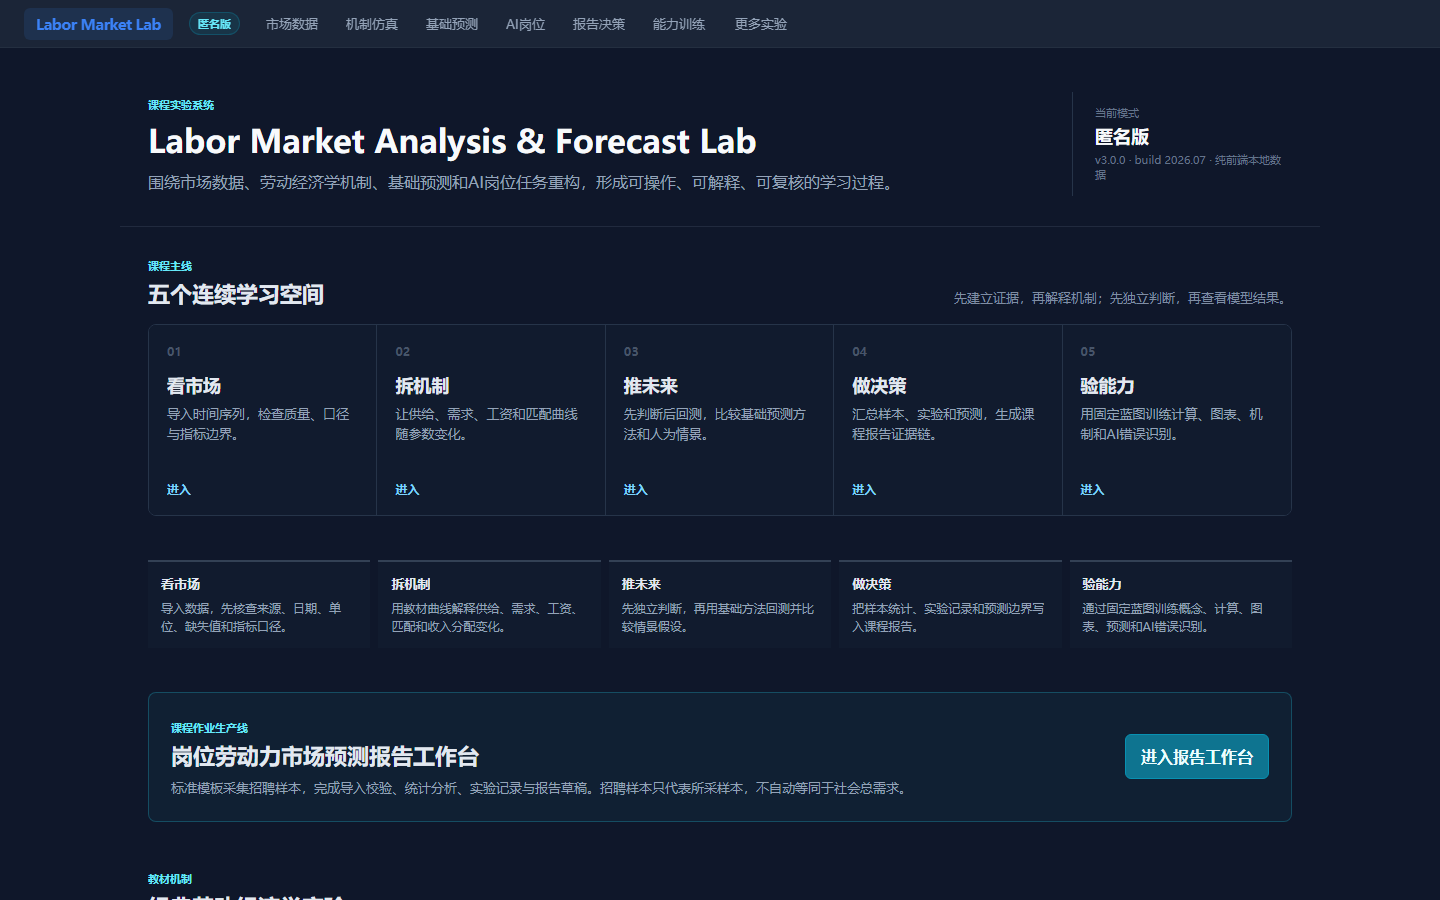
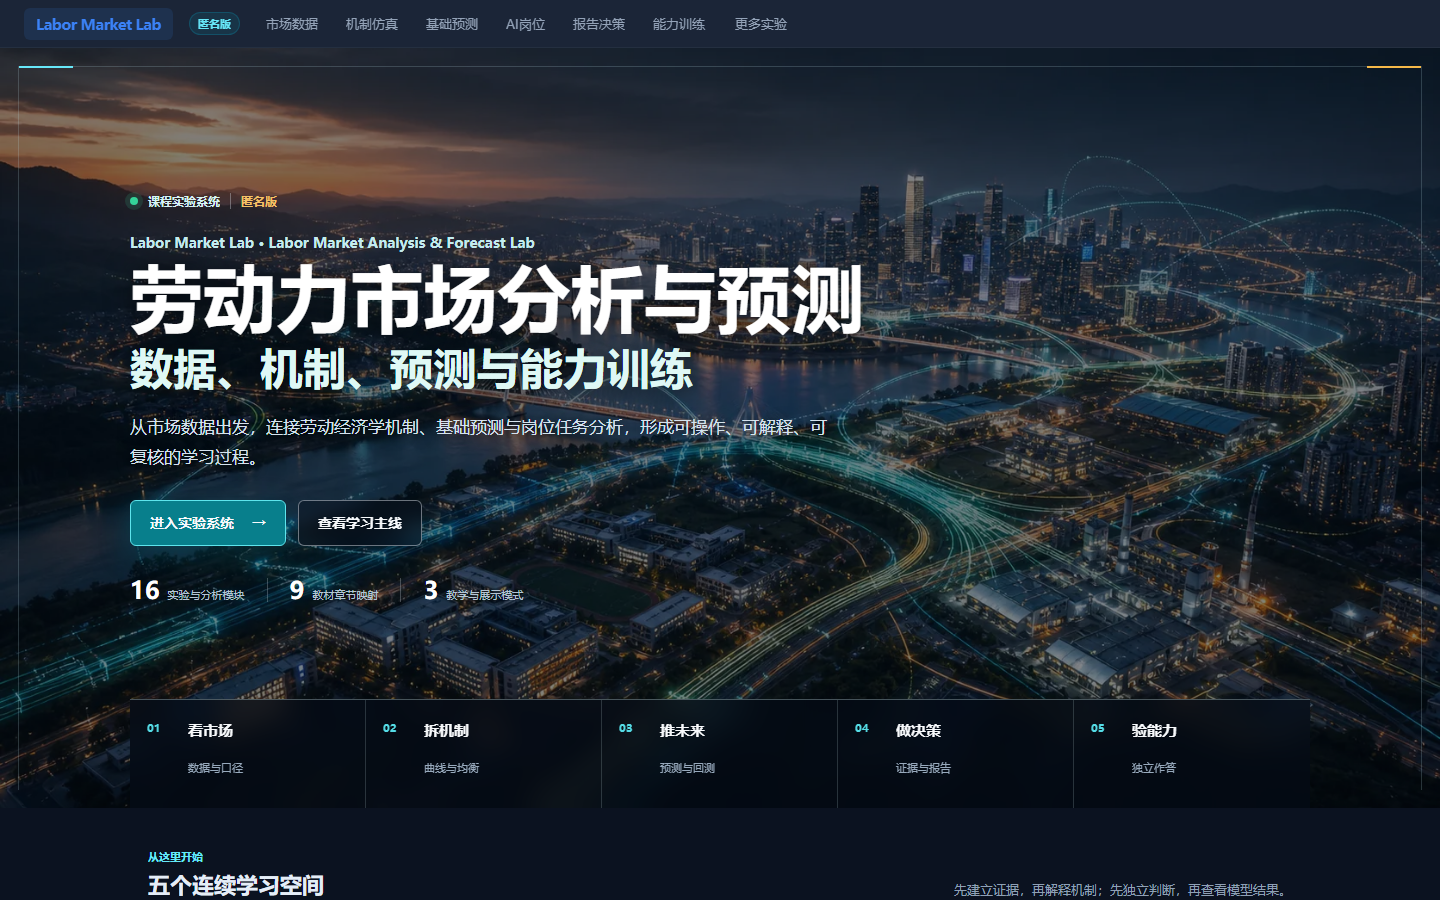
Restore immersive LMDT home experience

diff --git a/src/views/Home.vue b/src/views/Home.vue
@@ -1,23 +1,66 @@
 <template>
   <div class="home-console">
-    <header class="course-header">
-      <div class="course-identity">
-        <span>{{ appProfile.heroBadge }}</span>
-        <h1>{{ appProfile.brandFull }}</h1>
-        <p>{{ appProfile.heroDesc }}</p>
+    <header class="hero-stage" :class="`hero-stage--${appMode}`">
+      <img
+        class="hero-scene"
+        src="../assets/lmdt-hero-v3.webp"
+        alt="成渝城市群中教育、产业与人才流动共同构成的劳动力市场数字孪生场景"
+        width="1672"
+        height="941"
+        fetchpriority="high"
+      />
+      <div class="hero-shade" aria-hidden="true"></div>
+      <div class="hero-frame" aria-hidden="true"></div>
+
+      <div class="hero-content">
+        <div class="hero-kicker">
+          <span class="signal-dot" aria-hidden="true"></span>
+          <span>{{ appProfile.heroBadge }}</span>
+          <strong>{{ modeName }}</strong>
+        </div>
+
+        <p class="hero-brand">{{ appProfile.brandShort }} · {{ appProfile.brandFull }}</p>
+        <h1>
+          <span>{{ appProfile.titleLines[0] }}</span>
+          <span>{{ appProfile.titleLines[1] }}</span>
+        </h1>
+        <p class="hero-desc">{{ heroCopy.desc }}</p>
+
+        <div class="hero-actions" aria-label="首页主要操作">
+          <router-link :to="heroCopy.primaryTo" class="hero-primary">
+            {{ heroCopy.primaryLabel }}
+            <span aria-hidden="true">→</span>
+          </router-link>
+          <router-link :to="heroCopy.secondaryTo" class="hero-secondary">
+            {{ heroCopy.secondaryLabel }}
+          </router-link>
+        </div>
+
+        <dl class="hero-metrics" aria-label="系统内容概览">
+          <div><dt>{{ appProfile.moduleCount }}</dt><dd>实验与分析模块</dd></div>
+          <div><dt>{{ appProfile.chapterCount }}</dt><dd>教材章节映射</dd></div>
+          <div><dt>3</dt><dd>教学与展示模式</dd></div>
+        </dl>
       </div>
-      <div class="course-status">
-        <span>当前模式</span><strong>{{ modeName }}</strong>
-        <small>{{ appProfile.footerVersion }} · 纯前端本地数据</small>
-      </div>
+
+      <nav class="hero-route" aria-label="课程学习主线">
+        <router-link v-for="(space,index) in learningSpaces" :key="space.to" :to="space.to">
+          <span>0{{ index + 1 }}</span>
+          <strong>{{ space.title }}</strong>
+          <small>{{ space.routeDesc }}</small>
+        </router-link>
+      </nav>
     </header>
 
     <main>
       <section class="learning-spaces" aria-labelledby="spaces-title">
-        <div class="section-head"><div><span>课程主线</span><h2 id="spaces-title">五个连续学习空间</h2></div><p>先建立证据，再解释机制；先独立判断，再查看模型结果。</p></div>
+        <div class="section-head">
+          <div><span>从这里开始</span><h2 id="spaces-title">五个连续学习空间</h2></div>
+          <p>先建立证据，再解释机制；先独立判断，再查看模型结果。</p>
+        </div>
         <div class="space-grid">
           <router-link v-for="(space,index) in learningSpaces" :key="space.to" :to="space.to" class="space-item">
-            <span class="space-index">0{{ index+1 }}</span>
+            <span class="space-index">0{{ index + 1 }}</span>
             <div><strong>{{ space.title }}</strong><p>{{ space.desc }}</p></div>
             <span class="space-action">进入</span>
           </router-link>
@@ -30,7 +73,7 @@
         <div class="preset-row"><router-link v-for="item in competitionPresets" :key="item.title" :to="item.to"><strong>{{ item.title }}</strong><span>{{ item.desc }}</span></router-link></div>
       </section>
 
-      <section v-if="isCompetition || isAnonymous" class="evidence-strip">
+      <section v-if="isCompetition || isAnonymous" class="evidence-strip" aria-label="课程学习闭环">
         <article v-for="step in showcaseSteps" :key="step.title"><strong>{{ step.title }}</strong><span>{{ step.desc }}</span></article>
       </section>
 
@@ -60,12 +103,36 @@
 import { appMode, appProfile, isAnonymous, isCompetition, showcaseSteps } from '../config/appMode'
 
 const modeName = { teaching: '教学版', competition: '竞赛展示版', anonymous: '匿名版' }[appMode]
+const heroCopy = {
+  teaching: {
+    desc: '把市场数据、教材曲线与岗位变化放进同一套可操作实验，让每一次判断都能找到数据、模型和记录。',
+    primaryLabel: '开始课程实验',
+    primaryTo: '/analysis/market',
+    secondaryLabel: '进入报告工作台',
+    secondaryTo: '/report/workbench',
+  },
+  competition: {
+    desc: '沿着“看市场—拆机制—推未来—做决策—验能力”的学习主线，现场展示数据证据、机制解释、预测回测与学习评价。',
+    primaryLabel: '启动5分钟展示',
+    primaryTo: '/analysis/market',
+    secondaryLabel: '查看AI岗位实验',
+    secondaryTo: '/lab/ai-occupation',
+  },
+  anonymous: {
+    desc: '从市场数据出发，连接劳动经济学机制、基础预测与岗位任务分析，形成可操作、可解释、可复核的学习过程。',
+    primaryLabel: '进入实验系统',
+    primaryTo: '/analysis/market',
+    secondaryLabel: '查看学习主线',
+    secondaryTo: '/lab/enterprise',
+  },
+}[appMode]
+
 const learningSpaces = [
-  { title:'看市场', desc:'导入时间序列，检查质量、口径与指标边界。', to:'/analysis/market' },
-  { title:'拆机制', desc:'让供给、需求、工资和匹配曲线随参数变化。', to:'/lab/enterprise' },
-  { title:'推未来', desc:'先判断后回测，比较基础预测方法和人为情景。', to:'/forecast/basic' },
-  { title:'做决策', desc:'汇总样本、实验和预测，生成课程报告证据链。', to:'/report/workbench' },
-  { title:'验能力', desc:'用固定蓝图训练计算、图表、机制和AI错误识别。', to:'/practice/exam' },
+  { title:'看市场', routeDesc:'数据与口径', desc:'导入时间序列，检查质量、口径与指标边界。', to:'/analysis/market' },
+  { title:'拆机制', routeDesc:'曲线与均衡', desc:'让供给、需求、工资和匹配曲线随参数变化。', to:'/lab/enterprise' },
+  { title:'推未来', routeDesc:'预测与回测', desc:'先判断后回测，比较基础预测方法和人为情景。', to:'/forecast/basic' },
+  { title:'做决策', routeDesc:'证据与报告', desc:'汇总样本、实验和预测，生成课程报告证据链。', to:'/report/workbench' },
+  { title:'验能力', routeDesc:'独立作答', desc:'用固定蓝图训练计算、图表、机制和AI错误识别。', to:'/practice/exam' },
 ]
 const competitionRoute = [
   { step:'01', title:'数据质量', desc:'指标不是拿来就算，先审来源和口径。', to:'/analysis/market' },
@@ -94,11 +161,11 @@ const classicLabs = [
 </script>
 
 <style scoped>
-.home-console{min-height:100vh;color:#e2e8f0;background:#0f172a}.course-header{display:grid;grid-template-columns:minmax(0,1fr) 220px;gap:32px;max-width:1200px;margin:auto;padding:44px 28px 30px;border-bottom:1px solid rgba(148,163,184,.14)}.course-identity>span,.section-head>div>span,.workspace-band>div>span,.assessment-band>div>span{color:#67e8f9;font-size:11px;font-weight:850}.course-identity h1{max-width:900px;margin:8px 0 10px;color:#f8fafc;font-size:32px;line-height:1.2;letter-spacing:0}.course-identity p{max-width:760px;margin:0;color:#94a3b8;line-height:1.65}.course-status{display:grid;align-content:center;gap:4px;padding-left:22px;border-left:1px solid #263449}.course-status span,.course-status small{color:#64748b;font-size:11px}.course-status strong{font-size:18px;color:#f8fafc}
-main{max-width:1200px;margin:auto;padding:26px 28px 70px}.learning-spaces,.competition-route,.classic-labs{margin-bottom:44px}.section-head{display:flex;align-items:end;justify-content:space-between;gap:24px;margin-bottom:16px}.section-head h2,.workspace-band h2,.assessment-band h2{margin:5px 0 0;font-size:22px}.section-head>p{max-width:440px;margin:0;color:#7f8da3;font-size:13px;line-height:1.5}.space-grid{display:grid;grid-template-columns:repeat(5,minmax(0,1fr));border:1px solid #263449;border-radius:8px;overflow:hidden}.space-item{min-width:0;display:grid;grid-template-rows:auto 1fr auto;gap:14px;min-height:190px;padding:18px;border-right:1px solid #263449;color:inherit;background:#111b2e;text-decoration:none}.space-item:last-child{border-right:0}.space-item:hover{background:#17243a}.space-index{color:#475569;font-size:12px;font-weight:900}.space-item strong{font-size:18px}.space-item p{margin:7px 0 0;color:#94a3b8;font-size:13px;line-height:1.55}.space-action{color:#7dd3fc;font-size:12px;font-weight:800}
-.competition-route{padding:20px;border:1px solid rgba(245,158,11,.28);border-radius:8px;background:#111b2e}.competition-route .section-head>div>span{color:#fbbf24}.competition-route ol{display:grid;grid-template-columns:repeat(6,minmax(0,1fr));gap:7px;padding:0;list-style:none}.competition-route li a{height:100%;display:grid;align-content:start;gap:6px;padding:12px;border:1px solid #263449;color:inherit;background:#0f172a;text-decoration:none}.competition-route li span{color:#fbbf24;font-size:10px}.competition-route li strong{font-size:13px}.competition-route li small{color:#94a3b8;line-height:1.45}.preset-row{display:grid;grid-template-columns:repeat(3,1fr);gap:7px;margin-top:10px}.preset-row a{display:flex;justify-content:space-between;gap:12px;padding:10px 12px;border-left:3px solid #38bdf8;color:#e2e8f0;background:#152238;text-decoration:none;font-size:12px}.preset-row span{color:#94a3b8}
-.evidence-strip{display:grid;grid-template-columns:repeat(5,1fr);gap:8px;margin-bottom:44px}.evidence-strip article{display:grid;gap:7px;padding:13px;border-top:2px solid #334155;background:#111b2e}.evidence-strip strong{font-size:13px}.evidence-strip span{color:#94a3b8;font-size:12px;line-height:1.5}.workspace-band{display:grid;grid-template-columns:minmax(0,1fr) auto;align-items:center;gap:30px;margin-bottom:44px;padding:22px;border:1px solid rgba(34,211,238,.25);border-radius:8px;background:#102033}.workspace-band p,.assessment-band p{max-width:780px;margin:8px 0 0;color:#94a3b8;font-size:13px;line-height:1.6}.workspace-band>a{padding:11px 15px;border:1px solid #0891b2;border-radius:6px;color:#ecfeff;background:#0e7490;text-decoration:none;font-weight:800;white-space:nowrap}
-.lab-index{display:grid;grid-template-columns:repeat(3,1fr);gap:8px}.lab-index a{min-height:118px;padding:15px;border:1px solid #263449;border-radius:6px;color:inherit;background:#111b2e;text-decoration:none}.lab-index a:hover{border-color:#475569}.lab-index span{color:#67e8f9;font-size:10px;font-weight:850}.lab-index strong{display:block;margin-top:8px;font-size:15px}.lab-index p{margin:6px 0 0;color:#94a3b8;font-size:12px;line-height:1.5}.assessment-band{display:grid;grid-template-columns:minmax(0,1fr) minmax(360px,480px);gap:28px;align-items:center;padding:22px;border:1px solid #263449;background:#111b2e}.assessment-band dl{display:grid;grid-template-columns:repeat(4,1fr);margin:0}.assessment-band dl div{padding:8px 12px;border-left:1px solid #263449;text-align:center}.assessment-band dt{color:#94a3b8;font-size:11px}.assessment-band dd{margin:5px 0 0;color:#f8fafc;font-size:20px;font-weight:900}
-footer{display:grid;grid-template-columns:1fr 1fr auto;gap:28px;align-items:center;padding:22px max(28px,calc((100vw - 1144px)/2));border-top:1px solid #263449;color:#64748b;background:#0b1324;font-size:11px}footer div{display:grid;gap:3px}footer strong{color:#7dd3fc;font-size:14px}
-@media(max-width:900px){.course-header{grid-template-columns:1fr;padding:28px 18px 22px}.course-status{padding:12px 0 0;border-top:1px solid #263449;border-left:0}.course-identity h1{font-size:25px}main{padding:20px 16px 70px}.section-head{display:block}.section-head>p{margin-top:8px}.space-grid{grid-template-columns:1fr}.space-item{grid-template-columns:36px 1fr auto;grid-template-rows:auto;min-height:0;border-right:0;border-bottom:1px solid #263449}.space-item:last-child{border-bottom:0}.competition-route ol,.evidence-strip{grid-template-columns:1fr}.preset-row,.lab-index{grid-template-columns:1fr}.workspace-band,.assessment-band{grid-template-columns:1fr}.assessment-band dl{grid-template-columns:repeat(2,1fr)}.assessment-band dl div{border:1px solid #263449}.workspace-band>a{text-align:center}footer{grid-template-columns:1fr;padding:22px 18px}.course-header p{font-size:13px}}
+.home-console{min-height:100vh;color:#e5edf7;background:#0b1220}.hero-stage{position:relative;height:min(760px,calc(100dvh - 86px));min-height:620px;overflow:hidden;isolation:isolate;background:#08111f}.hero-scene{position:absolute;inset:0;z-index:-4;width:100%;height:100%;object-fit:cover;object-position:center 54%;animation:scene-breathe 18s ease-in-out infinite alternate}.hero-shade{position:absolute;inset:0;z-index:-3;background:rgba(3,9,18,.5)}.hero-frame{position:absolute;inset:18px;z-index:-1;border:1px solid rgba(190,226,236,.2);border-bottom:0;pointer-events:none}.hero-frame::before,.hero-frame::after{content:"";position:absolute;width:54px;height:2px;top:-1px;background:#67e8f9}.hero-frame::before{left:0}.hero-frame::after{right:0;background:#f5b849}.hero-content{width:min(1180px,calc(100% - 56px));height:100%;margin:auto;padding:clamp(58px,9vh,104px) 0 142px;display:flex;flex-direction:column;align-items:flex-start;justify-content:center}.hero-kicker{display:flex;align-items:center;gap:10px;color:#d8f4f5;font-size:12px;font-weight:760}.hero-kicker strong{padding-left:10px;border-left:1px solid rgba(226,232,240,.35);color:#f5c267}.signal-dot{width:8px;height:8px;border-radius:50%;background:#34d399;box-shadow:0 0 0 5px rgba(52,211,153,.15)}.hero-brand{margin:24px 0 4px;color:#6ee7f2;font-size:14px;font-weight:900;letter-spacing:0}.hero-content h1{margin:0;max-width:900px;color:#fff;font-size:clamp(42px,5.1vw,76px);font-weight:900;line-height:1.08;letter-spacing:0;text-shadow:0 4px 28px rgba(0,0,0,.7)}.hero-content h1 span{display:block}.hero-content h1 span:last-child{margin-top:8px;color:#dff8f5;font-size:.59em;font-weight:720}.hero-desc{max-width:700px;margin:22px 0 0;color:#d6e3ee;font-size:17px;line-height:1.75;text-shadow:0 2px 14px rgba(0,0,0,.75)}.hero-actions{display:flex;gap:12px;margin-top:28px}.hero-actions a{min-height:46px;display:inline-flex;align-items:center;justify-content:center;gap:18px;padding:0 19px;border-radius:6px;color:#f8fafc;text-decoration:none;font-size:14px;font-weight:850;transition:transform .2s,border-color .2s,background .2s}.hero-actions a:hover{transform:translateY(-2px)}.hero-primary{border:1px solid #5ee4ec;background:#087f8c;box-shadow:0 10px 32px rgba(8,127,140,.28)}.hero-primary:hover{background:#0b919e}.hero-secondary{border:1px solid rgba(226,232,240,.46);background:rgba(7,15,28,.42);backdrop-filter:blur(8px)}.hero-secondary:hover{border-color:#f5c267;background:rgba(7,15,28,.68)}.hero-metrics{display:flex;gap:0;margin:32px 0 0}.hero-metrics div{display:grid;grid-template-columns:auto auto;align-items:end;gap:8px;padding:0 22px;border-left:1px solid rgba(226,232,240,.26)}.hero-metrics div:first-child{padding-left:0;border-left:0}.hero-metrics dt{color:#fff;font-size:24px;font-weight:900;line-height:1}.hero-metrics dd{margin:0;color:#b5c5d4;font-size:11px}.hero-route{position:absolute;left:50%;bottom:0;width:min(1180px,calc(100% - 56px));display:grid;grid-template-columns:repeat(5,1fr);transform:translateX(-50%);border-top:1px solid rgba(209,236,240,.32);background:rgba(4,11,21,.74);backdrop-filter:blur(14px)}.hero-route a{min-width:0;display:grid;grid-template-columns:31px auto;grid-template-rows:auto auto;column-gap:10px;min-height:108px;padding:20px 17px;border-right:1px solid rgba(209,236,240,.18);color:#f8fafc;text-decoration:none;transition:background .2s}.hero-route a:last-child{border-right:0}.hero-route a:hover{background:rgba(30,188,197,.15)}.hero-route span{grid-row:1/3;color:#55dce6;font-size:11px;font-weight:900}.hero-route strong{font-size:15px}.hero-route small{margin-top:6px;color:#98aabd;font-size:11px}.hero-stage--competition .hero-kicker strong{color:#ffd47a}.hero-stage--competition .hero-primary{border-color:#ffd47a;background:#9b6408;box-shadow:0 10px 32px rgba(155,100,8,.3)}.hero-stage--competition .hero-primary:hover{background:#b3740b}.hero-stage--anonymous .hero-brand{color:#c5edf0}
+main{max-width:1200px;margin:auto;padding:36px 28px 70px}.learning-spaces,.competition-route,.classic-labs{margin-bottom:44px}.section-head{display:flex;align-items:end;justify-content:space-between;gap:24px;margin-bottom:16px}.section-head>div>span,.workspace-band>div>span,.assessment-band>div>span{color:#67e8f9;font-size:11px;font-weight:850}.section-head h2,.workspace-band h2,.assessment-band h2{margin:5px 0 0;font-size:22px}.section-head>p{max-width:440px;margin:0;color:#8fa0b5;font-size:13px;line-height:1.5}.space-grid{display:grid;grid-template-columns:repeat(5,minmax(0,1fr));border:1px solid #263449;border-radius:8px;overflow:hidden}.space-item{min-width:0;display:grid;grid-template-rows:auto 1fr auto;gap:14px;min-height:190px;padding:18px;border-right:1px solid #263449;color:inherit;background:#111b2e;text-decoration:none}.space-item:last-child{border-right:0}.space-item:hover{background:#17243a}.space-index{color:#5f7188;font-size:12px;font-weight:900}.space-item strong{font-size:18px}.space-item p{margin:7px 0 0;color:#a5b4c7;font-size:13px;line-height:1.55}.space-action{color:#7dd3fc;font-size:12px;font-weight:800}.competition-route{padding:20px;border:1px solid rgba(245,158,11,.28);border-radius:8px;background:#111b2e}.competition-route .section-head>div>span{color:#fbbf24}.competition-route ol{display:grid;grid-template-columns:repeat(6,minmax(0,1fr));gap:7px;padding:0;list-style:none}.competition-route li a{height:100%;display:grid;align-content:start;gap:6px;padding:12px;border:1px solid #263449;color:inherit;background:#0f172a;text-decoration:none}.competition-route li span{color:#fbbf24;font-size:10px}.competition-route li strong{font-size:13px}.competition-route li small{color:#a5b4c7;line-height:1.45}.preset-row{display:grid;grid-template-columns:repeat(3,1fr);gap:7px;margin-top:10px}.preset-row a{display:flex;justify-content:space-between;gap:12px;padding:10px 12px;border-left:3px solid #38bdf8;color:#e2e8f0;background:#152238;text-decoration:none;font-size:12px}.preset-row span{color:#a5b4c7}.evidence-strip{display:grid;grid-template-columns:repeat(5,1fr);gap:8px;margin-bottom:44px}.evidence-strip article{display:grid;gap:7px;padding:13px;border-top:2px solid #334155;background:#111b2e}.evidence-strip strong{font-size:13px}.evidence-strip span{color:#a5b4c7;font-size:12px;line-height:1.5}.workspace-band{display:grid;grid-template-columns:minmax(0,1fr) auto;align-items:center;gap:30px;margin-bottom:44px;padding:22px;border:1px solid rgba(34,211,238,.25);border-radius:8px;background:#102033}.workspace-band p,.assessment-band p{max-width:780px;margin:8px 0 0;color:#a5b4c7;font-size:13px;line-height:1.6}.workspace-band>a{padding:11px 15px;border:1px solid #0891b2;border-radius:6px;color:#ecfeff;background:#0e7490;text-decoration:none;font-weight:800;white-space:nowrap}.lab-index{display:grid;grid-template-columns:repeat(3,1fr);gap:8px}.lab-index a{min-height:118px;padding:15px;border:1px solid #263449;border-radius:6px;color:inherit;background:#111b2e;text-decoration:none}.lab-index a:hover{border-color:#475569}.lab-index span{color:#67e8f9;font-size:10px;font-weight:850}.lab-index strong{display:block;margin-top:8px;font-size:15px}.lab-index p{margin:6px 0 0;color:#a5b4c7;font-size:12px;line-height:1.5}.assessment-band{display:grid;grid-template-columns:minmax(0,1fr) minmax(360px,480px);gap:28px;align-items:center;padding:22px;border:1px solid #263449;background:#111b2e}.assessment-band dl{display:grid;grid-template-columns:repeat(4,1fr);margin:0}.assessment-band dl div{padding:8px 12px;border-left:1px solid #263449;text-align:center}.assessment-band dt{color:#a5b4c7;font-size:11px}.assessment-band dd{margin:5px 0 0;color:#f8fafc;font-size:20px;font-weight:900}footer{display:grid;grid-template-columns:1fr 1fr auto;gap:28px;align-items:center;padding:22px max(28px,calc((100vw - 1144px)/2));border-top:1px solid #263449;color:#718198;background:#08101d;font-size:11px}footer div{display:grid;gap:3px}footer strong{color:#7dd3fc;font-size:14px}
+@keyframes scene-breathe{from{transform:scale(1)}to{transform:scale(1.035)}}
+.hero-scene{animation:none}
+@media(max-width:900px){.hero-stage{height:min(690px,calc(100dvh - 86px));min-height:580px}.hero-scene{object-position:61% center}.hero-frame{inset:10px}.hero-content{width:calc(100% - 36px);padding:44px 0 112px;justify-content:center}.hero-kicker{font-size:10px}.hero-kicker strong{padding-left:7px}.hero-brand{margin-top:18px;font-size:12px}.hero-content h1{font-size:clamp(34px,10vw,50px);line-height:1.12}.hero-content h1 span:last-child{font-size:.54em}.hero-desc{max-width:560px;margin-top:17px;font-size:14px;line-height:1.65}.hero-actions{width:100%;margin-top:21px}.hero-actions a{min-height:44px;flex:1;padding:0 12px;font-size:12px}.hero-metrics{margin-top:24px}.hero-metrics div{display:block;padding:0 13px}.hero-metrics dt{font-size:20px}.hero-metrics dd{margin-top:5px;font-size:9px}.hero-route{width:calc(100% - 20px);grid-template-columns:repeat(5,1fr)}.hero-route a{display:grid;grid-template-columns:1fr;grid-template-rows:auto auto;gap:5px;min-height:84px;padding:13px 4px;text-align:center}.hero-route span{grid-row:auto;font-size:9px}.hero-route strong{font-size:11px}.hero-route small{display:none}main{padding:28px 16px 70px}.section-head{display:block}.section-head>p{margin-top:8px}.space-grid{grid-template-columns:1fr}.space-item{grid-template-columns:36px 1fr auto;grid-template-rows:auto;min-height:0;border-right:0;border-bottom:1px solid #263449}.space-item:last-child{border-bottom:0}.competition-route ol,.evidence-strip{grid-template-columns:1fr}.preset-row,.lab-index{grid-template-columns:1fr}.workspace-band,.assessment-band{grid-template-columns:1fr}.assessment-band dl{grid-template-columns:repeat(2,1fr)}.assessment-band dl div{border:1px solid #263449}.workspace-band>a{text-align:center}footer{grid-template-columns:1fr;padding:22px 18px}.hero-stage--anonymous .hero-content h1{font-size:clamp(31px,9vw,46px)}}
+@media(max-width:430px){.hero-stage{min-height:560px}.hero-content{padding-top:32px}.hero-desc{max-width:340px}.hero-metrics div:nth-child(3){display:none}.hero-actions{gap:8px}.hero-actions a{font-size:11px}.hero-route strong{font-size:10px}}
+@media(prefers-reduced-motion:reduce){.hero-scene{animation:none}}
 </style>

diff --git a/tests/e2e/platform.spec.js b/tests/e2e/platform.spec.js
@@ -18,6 +18,35 @@ const coreRoutes = [
   ['/report/workbench', '岗位劳动力市场预测报告工作台'],
 ]
 
+test('三种模式均保留沉浸式封面并使用各自入口文案', async ({ page }) => {
+  await page.setViewportSize({ width: 1366, height: 768 })
+  const modes = [
+    { url: '/#/', mode: '教学版', primary: '开始课程实验' },
+    { url: '/?mode=competition#/', mode: '竞赛展示版', primary: '启动5分钟展示' },
+    { url: '/?mode=anonymous#/', mode: '匿名版', primary: '进入实验系统' },
+  ]
+
+  for (const item of modes) {
+    await page.goto(item.url)
+    await expect(page.locator('.hero-stage')).toBeInViewport()
+    await expect(page.locator('.hero-kicker strong')).toHaveText(item.mode)
+    await expect(page.getByRole('link', { name: new RegExp(item.primary) })).toBeVisible()
+    await expect(page.locator('.hero-route a')).toHaveCount(5)
+    expect(await page.locator('.hero-scene').evaluate(image => image.complete && image.naturalWidth > 1200)).toBe(true)
+    const heroBox = await page.locator('.hero-stage').boundingBox()
+    expect(heroBox.y + heroBox.height).toBeLessThan(page.viewportSize().height)
+  }
+})
+
+test('移动端封面标题、操作与学习主线同屏且无水平溢出', async ({ page }) => {
+  await page.setViewportSize({ width: 390, height: 844 })
+  await page.goto('/?mode=competition#/')
+  await expect(page.getByRole('heading', { level: 1 })).toBeInViewport()
+  await expect(page.getByRole('link', { name: /启动5分钟展示/ })).toBeInViewport()
+  await expect(page.locator('.hero-route')).toBeInViewport()
+  expect(await page.evaluate(() => document.documentElement.scrollWidth - document.documentElement.clientWidth)).toBeLessThanOrEqual(1)
+})
+
 test('教学模式核心路由均可加载且无水平溢出', async ({ page }) => {
   await page.setViewportSize({ width: 1366, height: 768 })
   const pageErrors = []

diff --git a/CHANGELOG.md b/CHANGELOG.md
@@ -13,6 +13,7 @@
 
 ### Changed
 
+- 首页恢复全宽劳动力市场数字孪生主视觉，教学版、竞赛展示版和匿名版分别使用对应的首屏操作与身份文案。
 - 产品主线升级为“看市场—拆机制—推未来—做决策—验能力”，课程定位统一为《劳动力市场分析与预测》。
 - 教学版、竞赛展示版和匿名版共享同一功能底座，并分别处理导览、身份与文案。
 - 企业劳动需求新增AI情景页签，明确区分机制推演与现实预测。

diff --git a/docs/test-report.md b/docs/test-report.md
@@ -49,5 +49,8 @@
 ## 模式截图
 
 - `docs/screenshots/teaching-home.png`
+- `docs/screenshots/teaching-home-mobile.png`
 - `docs/screenshots/competition-home.png`
+- `docs/screenshots/competition-home-mobile.png`
 - `docs/screenshots/anonymous-home.png`
+- `docs/screenshots/anonymous-home-mobile.png`
